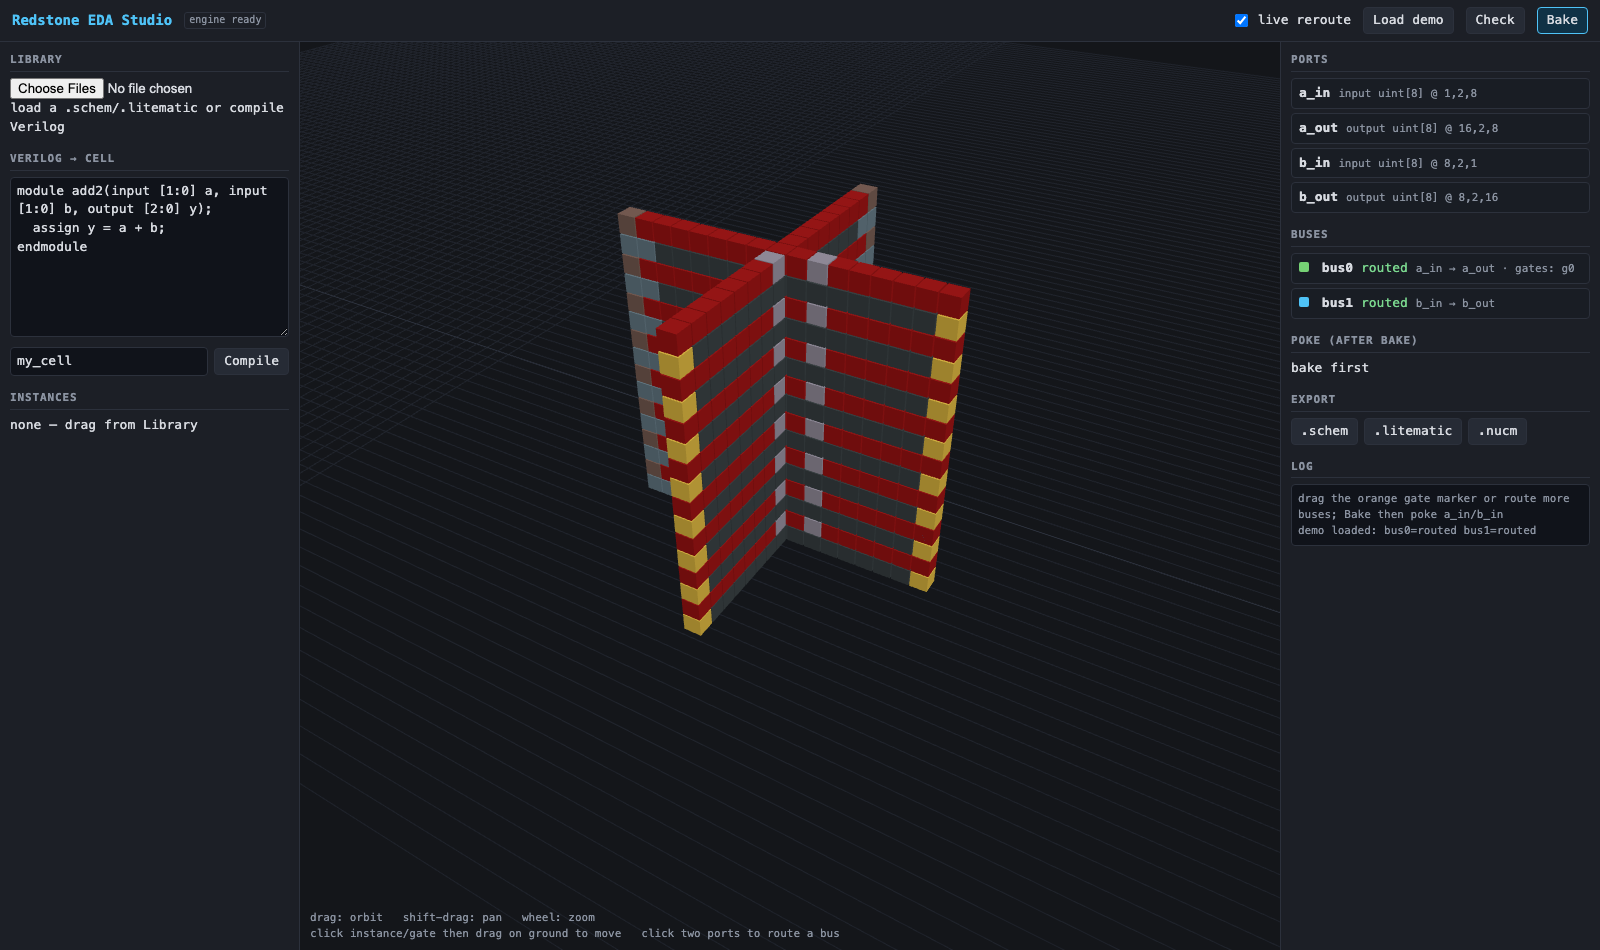
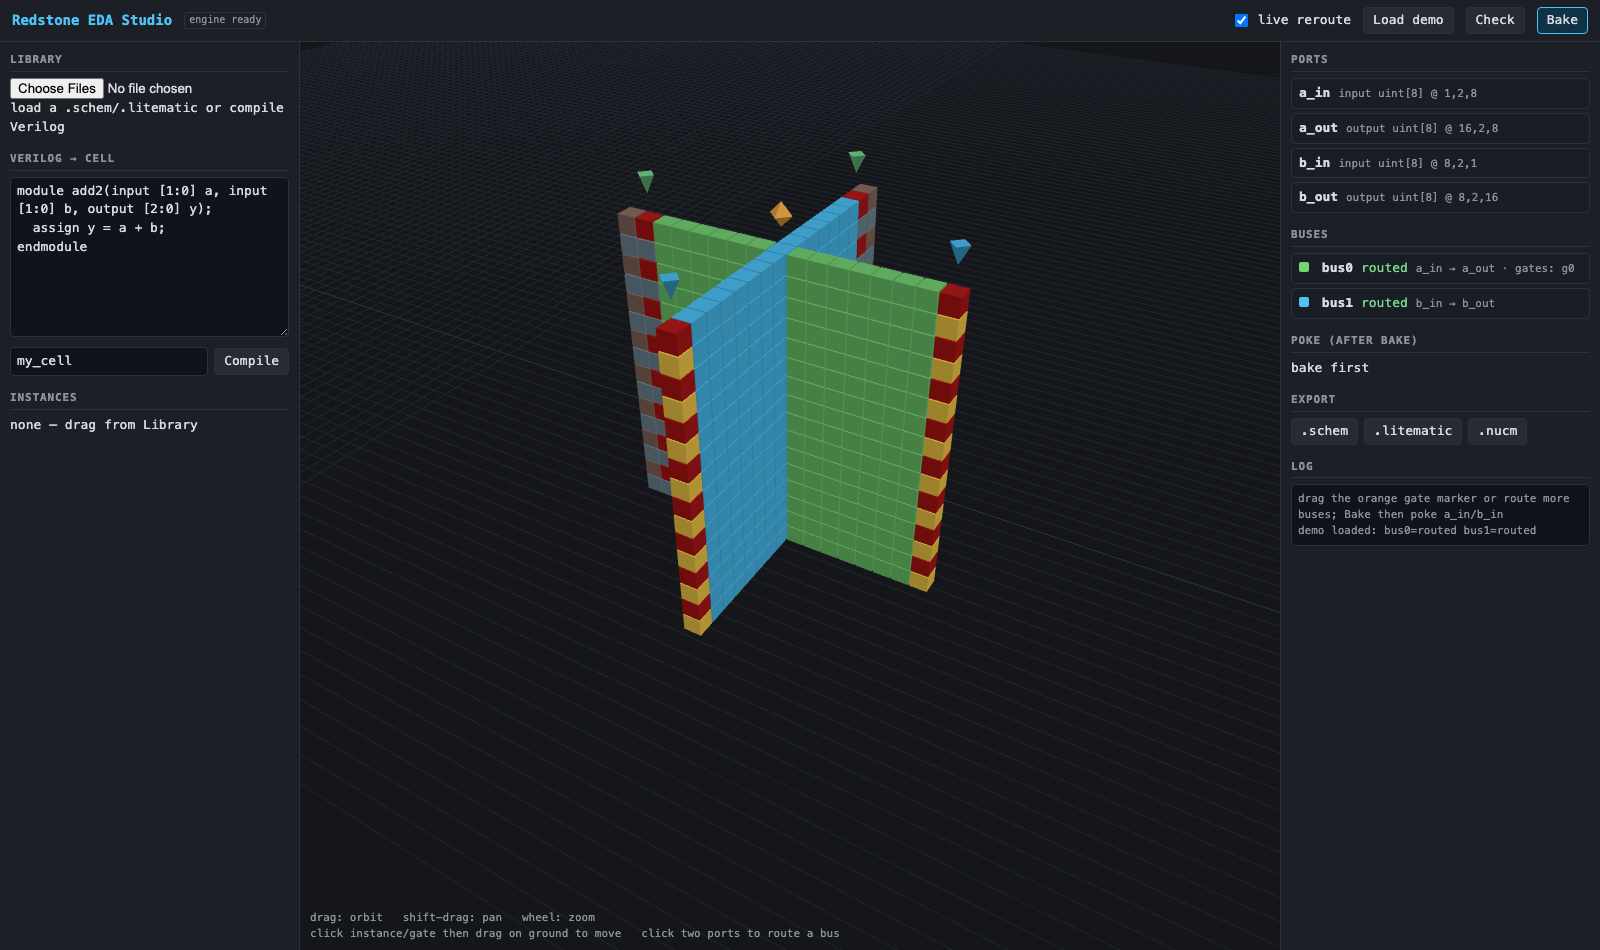
fix(eda-studio): per-layer colors, visible markers, verified 8/8 headless
- layers() now reads flatten()'s NAMED SCHEMATIC REGIONS back through the
  new per-region non-air dump (the DefinitionRegion path found nothing:
  flatten writes schematic regions) — buses finally render in their own
  colors and failed layers in red, with the dense-dump OOM ruled out.
- port cones and gate octahedra float past the last bit of their column
  instead of hiding inside the rendered stack; gate markers carry
  step/width; drop a stray NUL byte that had split a gate pick id.
- dispose geometries/materials on scene rebuilds (Group.clear leaks GPU
  buffers).
- screenshot verify is 8/8 and ordered so bake+poke runs before the
  deliberately-destructive drag-through test; gate drag targets
  (12,2,12) — off both corridors — and asserts check().clean, because
  dropping a gate ON a corridor routes fine but SHORTS the buses (0xff
  everywhere; found the hard way, caught by check()); heal after a
  drag-through uses the documented gate-nudge + no-op-move chain.
- testdata/and2.blif: cell-sized HDL cell for the canvas tests (cmp4 is
  284x66x213; the node smoke keeps it as the stress case).

Changed region(s): [[0.4062, 0.2137, 0.5938, 0.6411], [0.5938, 0.2442, 0.625, 0.2747], [0.5312, 0.1526, 0.5625, 0.1832]]

diff --git a/apps/eda-studio/src/studio.ts b/apps/eda-studio/src/studio.ts
@@ -226,37 +226,30 @@ export class Studio {
 
   // -- scene extraction ------------------------------------------------------
 
-  /** The flattened document split into render layers: named regions
-   *  (`bus:x`, `inst:y`) with per-bus colors, plus the loose remainder.
+  /** The flattened document split into render layers.
    *
-   *  Deliberately avoids the dense dumps (`getAllBlocksJson`, region
-   *  `blocksJson`): both materialize every in-bounds AIR cell, and one
-   *  placed HDL cell has a multi-million-cell bounding volume — enough to
-   *  exhaust wasm memory. Instead: ONE non-air dump of the flat artifact,
-   *  classified in JS against each region's box list (`boxesJson`). */
+   *  flatten() writes each layer into a NAMED SCHEMATIC REGION
+   *  (`inst:{name}`, `bus:{name}`) plus the default region for the loose
+   *  base; each is read back with the per-region NON-AIR dump. The dense
+   *  dumps (`getAllBlocksJson`, DefinitionRegion `blocksJson`) are
+   *  deliberately avoided: they materialize every in-bounds air cell, and
+   *  one placed HDL cell has a multi-million-cell bounding volume —
+   *  enough to exhaust wasm memory. */
   layers(): LayerBlocks[] {
     const flat = this.design.flatten();
     const s = flat.raw;
-    let all: LayerBlocks["blocks"];
-    try {
-      all = JSON.parse(s.getNonAirBlocksJson());
-    } catch {
-      // engine predates the non-air dump: dense fallback, filtered here.
-      // Safe only while the design is small (the dense dump can OOM).
-      all = (JSON.parse(s.getAllBlocksJson()) as LayerBlocks["blocks"])
-        .filter((b) => b.name !== "minecraft:air");
-    }
-    const names = JSON.parse(this.core.SchematicRegions.namesJson(s)) as string[];
-    // bus layers claim blocks first (an instance bbox may overlap a bus run)
-    const rank = (n: string) => (n.startsWith("bus:") ? 0 : n.startsWith("inst:") ? 1 : 2);
-    const defs: { name: string; boxes: number[]; layer: LayerBlocks }[] = [];
+    const names = JSON.parse(s.regionNamesJson()) as string[];
+    const layers: LayerBlocks[] = [];
+    const claimed = new Set<string>();
     for (const name of names) {
-      let boxes: number[];
+      if (!name.startsWith("bus:") && !name.startsWith("inst:")) continue;
+      let blocks: LayerBlocks["blocks"];
       try {
-        boxes = JSON.parse(this.core.SchematicRegions.get(s, name).boxesJson());
+        blocks = JSON.parse(s.getRegionNonAirBlocksJson(name));
       } catch {
         continue;
       }
+      for (const b of blocks) claimed.add(`${b.x},${b.y},${b.z}`);
       let color: number | null = null;
       let failed = false;
       if (name.startsWith("bus:")) {
@@ -264,21 +257,11 @@ export class Studio {
         color = this.buses.get(busName)?.color ?? null;
         failed = this.busState(busName).startsWith("failed");
       }
-      defs.push({ name, boxes, layer: { layer: name, color, failed, blocks: [] } });
+      layers.push({ layer: name, color, failed, blocks });
     }
-    defs.sort((a, b) => rank(a.name) - rank(b.name));
-    const loose: LayerBlocks = { layer: "loose", color: null, failed: false, blocks: [] };
-    const inBoxes = (boxes: number[], x: number, y: number, z: number) => {
-      for (let i = 0; i + 5 < boxes.length; i += 6) {
-        if (x >= boxes[i] && y >= boxes[i + 1] && z >= boxes[i + 2] &&
-            x <= boxes[i + 3] && y <= boxes[i + 4] && z <= boxes[i + 5]) return true;
-      }
-      return false;
-    };
-    for (const b of all) {
-      const def = defs.find((d) => inBoxes(d.boxes, b.x, b.y, b.z));
-      (def ? def.layer : loose).blocks.push(b);
-    }
-    return [...defs.map((d) => d.layer), loose];
+    const all = JSON.parse(s.getNonAirBlocksJson()) as LayerBlocks["blocks"];
+    const loose = all.filter((b) => !claimed.has(`${b.x},${b.y},${b.z}`));
+    layers.push({ layer: "loose", color: null, failed: false, blocks: loose });
+    return layers;
   }
 }

diff --git a/apps/eda-studio/src/viewer.ts b/apps/eda-studio/src/viewer.ts
@@ -16,7 +16,18 @@ import { OrbitControls } from "three/addons/controls/OrbitControls.js";
 import type { LayerBlocks, Vec3 } from "./studio";
 
 export interface PortMarker { name: string; kind: "input" | "output"; anchor: Vec3; width: number; step: Vec3; }
-export interface GateMarker { bus: string; name: string; anchor: Vec3; }
+export interface GateMarker { bus: string; name: string; anchor: Vec3; step: Vec3; width: number; }
+
+/** Markers float just past the LAST bit of the column (anchor + step*(w-1))
+ *  so they never sit inside the rendered stack. */
+function markerPos(anchor: Vec3, step: Vec3, width: number): Vec3 {
+  const w = Math.max(width - 1, 0);
+  return [
+    anchor[0] + step[0] * w + (step[0] ? Math.sign(step[0]) : 0),
+    anchor[1] + step[1] * w + (step[1] ? Math.sign(step[1]) * 2 : 2),
+    anchor[2] + step[2] * w + (step[2] ? Math.sign(step[2]) : 0),
+  ];
+}
 export interface InstanceMarker { name: string; at: Vec3; dims: Vec3; rot: number; }
 
 export interface ViewerCallbacks {
@@ -110,8 +121,18 @@ export class Viewer {
 
   // -- scene rebuild --------------------------------------------------------
 
+  private static disposeDeep(group: THREE.Group) {
+    group.traverse((obj) => {
+      const m = obj as Partial<THREE.Mesh>;
+      (m.geometry as THREE.BufferGeometry | undefined)?.dispose();
+      const mats = Array.isArray(m.material) ? m.material : m.material ? [m.material] : [];
+      for (const mat of mats) (mat as THREE.Material).dispose();
+    });
+    group.clear();
+  }
+
   setLayers(layers: LayerBlocks[]) {
-    this.blockGroup.clear();
+    Viewer.disposeDeep(this.blockGroup);
     const box = new THREE.BoxGeometry(0.94, 0.94, 0.94);
     for (const layer of layers) {
       // group blocks by final color so each color is ONE InstancedMesh
@@ -139,7 +160,7 @@ export class Viewer {
   }
 
   setMarkers(ports: PortMarker[], gates: GateMarker[], instances: InstanceMarker[]) {
-    this.markerGroup.clear();
+    Viewer.disposeDeep(this.markerGroup);
     this.pickables = [];
     for (const p of ports) {
       const geo = new THREE.ConeGeometry(0.45, 0.9, 4);
@@ -147,8 +168,8 @@ export class Viewer {
         color: p.kind === "input" ? 0x7bd88f : 0x4fc3f7,
       });
       const cone = new THREE.Mesh(geo, mat);
-      cone.position.set(p.anchor[0], p.anchor[1] + 1.4, p.anchor[2]);
-      cone.rotation.x = Math.PI; // point down at the bit-0 cell
+      cone.position.set(...markerPos(p.anchor, p.step, p.width));
+      cone.rotation.x = Math.PI; // point down at the bit column
       cone.userData = { type: "port", id: p.name };
       this.markerGroup.add(cone);
       this.pickables.push(cone);
@@ -157,8 +178,8 @@ export class Viewer {
       const geo = new THREE.OctahedronGeometry(0.55);
       const mat = new THREE.MeshLambertMaterial({ color: 0xffb74d });
       const m = new THREE.Mesh(geo, mat);
-      m.position.set(g.anchor[0], g.anchor[1] + 1.4, g.anchor[2]);
-      m.userData = { type: "gate", id: `${g.bus}${g.name}`, y: g.anchor[1] };
+      m.position.set(...markerPos(g.anchor, g.step, g.width));
+      m.userData = { type: "gate", id: `${g.bus} ${g.name}`, y: g.anchor[1] };
       this.markerGroup.add(m);
       this.pickables.push(m);
     }

diff --git a/apps/eda-studio/src/main.ts b/apps/eda-studio/src/main.ts
@@ -118,9 +118,10 @@ async function boot() {
     const ports: PortMarker[] = [...studio.ports.values()].map((p) => ({
       name: p.name, kind: p.kind, anchor: p.anchor, step: p.step, width: p.width,
     }));
-    const gates: GateMarker[] = [...studio.buses.values()].flatMap((b) =>
-      b.gates.map((g) => ({ bus: b.name, name: g.name, anchor: g.anchor })),
-    );
+    const gates: GateMarker[] = [...studio.buses.values()].flatMap((b) => {
+      const width = studio.ports.get(b.driver)?.width ?? 1;
+      return b.gates.map((g) => ({ bus: b.name, name: g.name, anchor: g.anchor, step: g.step, width }));
+    });
     const instances: InstanceMarker[] = [...studio.instances.values()].map((i) => ({
       name: i.name, at: i.at, rot: i.rot,
       dims: studio.cells.get(i.cell)?.dims ?? [1, 1, 1],
